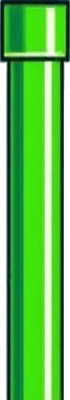
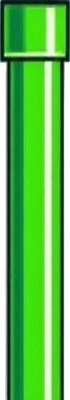
Add files via upload

diff --git a/Flappy Bird.py b/Flappy Bird.py
@@ -61,14 +61,26 @@ powerup_timer = 0
 # Score
 score = 0
 
+# --- Load images ---
+pipe_file = "pipe.png"
+background_file = "background.png"
+
+pipe_img = pygame.image.load(pipe_file).convert_alpha()
+background_img = pygame.image.load(background_file).convert()
+background_img = pygame.transform.scale(background_img, (WIDTH, HEIGHT))
+
 # --- Functions ---
 def draw_bird(x, y):
     screen.blit(bird_img, (x - bird_img.get_width()//2, y - bird_img.get_height()//2))
 
 def draw_pipes(pipes):
     for pipe in pipes:
-        pygame.draw.rect(screen, GREEN, pipe[0])  # top pipe
-        pygame.draw.rect(screen, GREEN, pipe[1])  # bottom pipe
+        # Top pipe
+        top_img = pygame.transform.scale(pipe_img, (pipe[0].width, pipe[0].height))
+        screen.blit(top_img, (pipe[0].x, pipe[0].y))
+        # Bottom pipe
+        bottom_img = pygame.transform.scale(pipe_img, (pipe[1].width, pipe[1].height))
+        screen.blit(bottom_img, (pipe[1].x, pipe[1].y))
 
 def check_collision(bird_rect, pipes):
     if bird_rect.top <= 0 or bird_rect.bottom >= HEIGHT:
@@ -89,9 +101,8 @@ while running:
     # Update weather system
     weather.update()
 
-    # Fill background with dynamic weather color
-    screen.fill(weather.get_background_color())
-
+    # Draw background image
+    screen.blit(background_img, (0, 0))
     # Draw weather effects (clouds, rain)
     weather.draw(screen)
 
